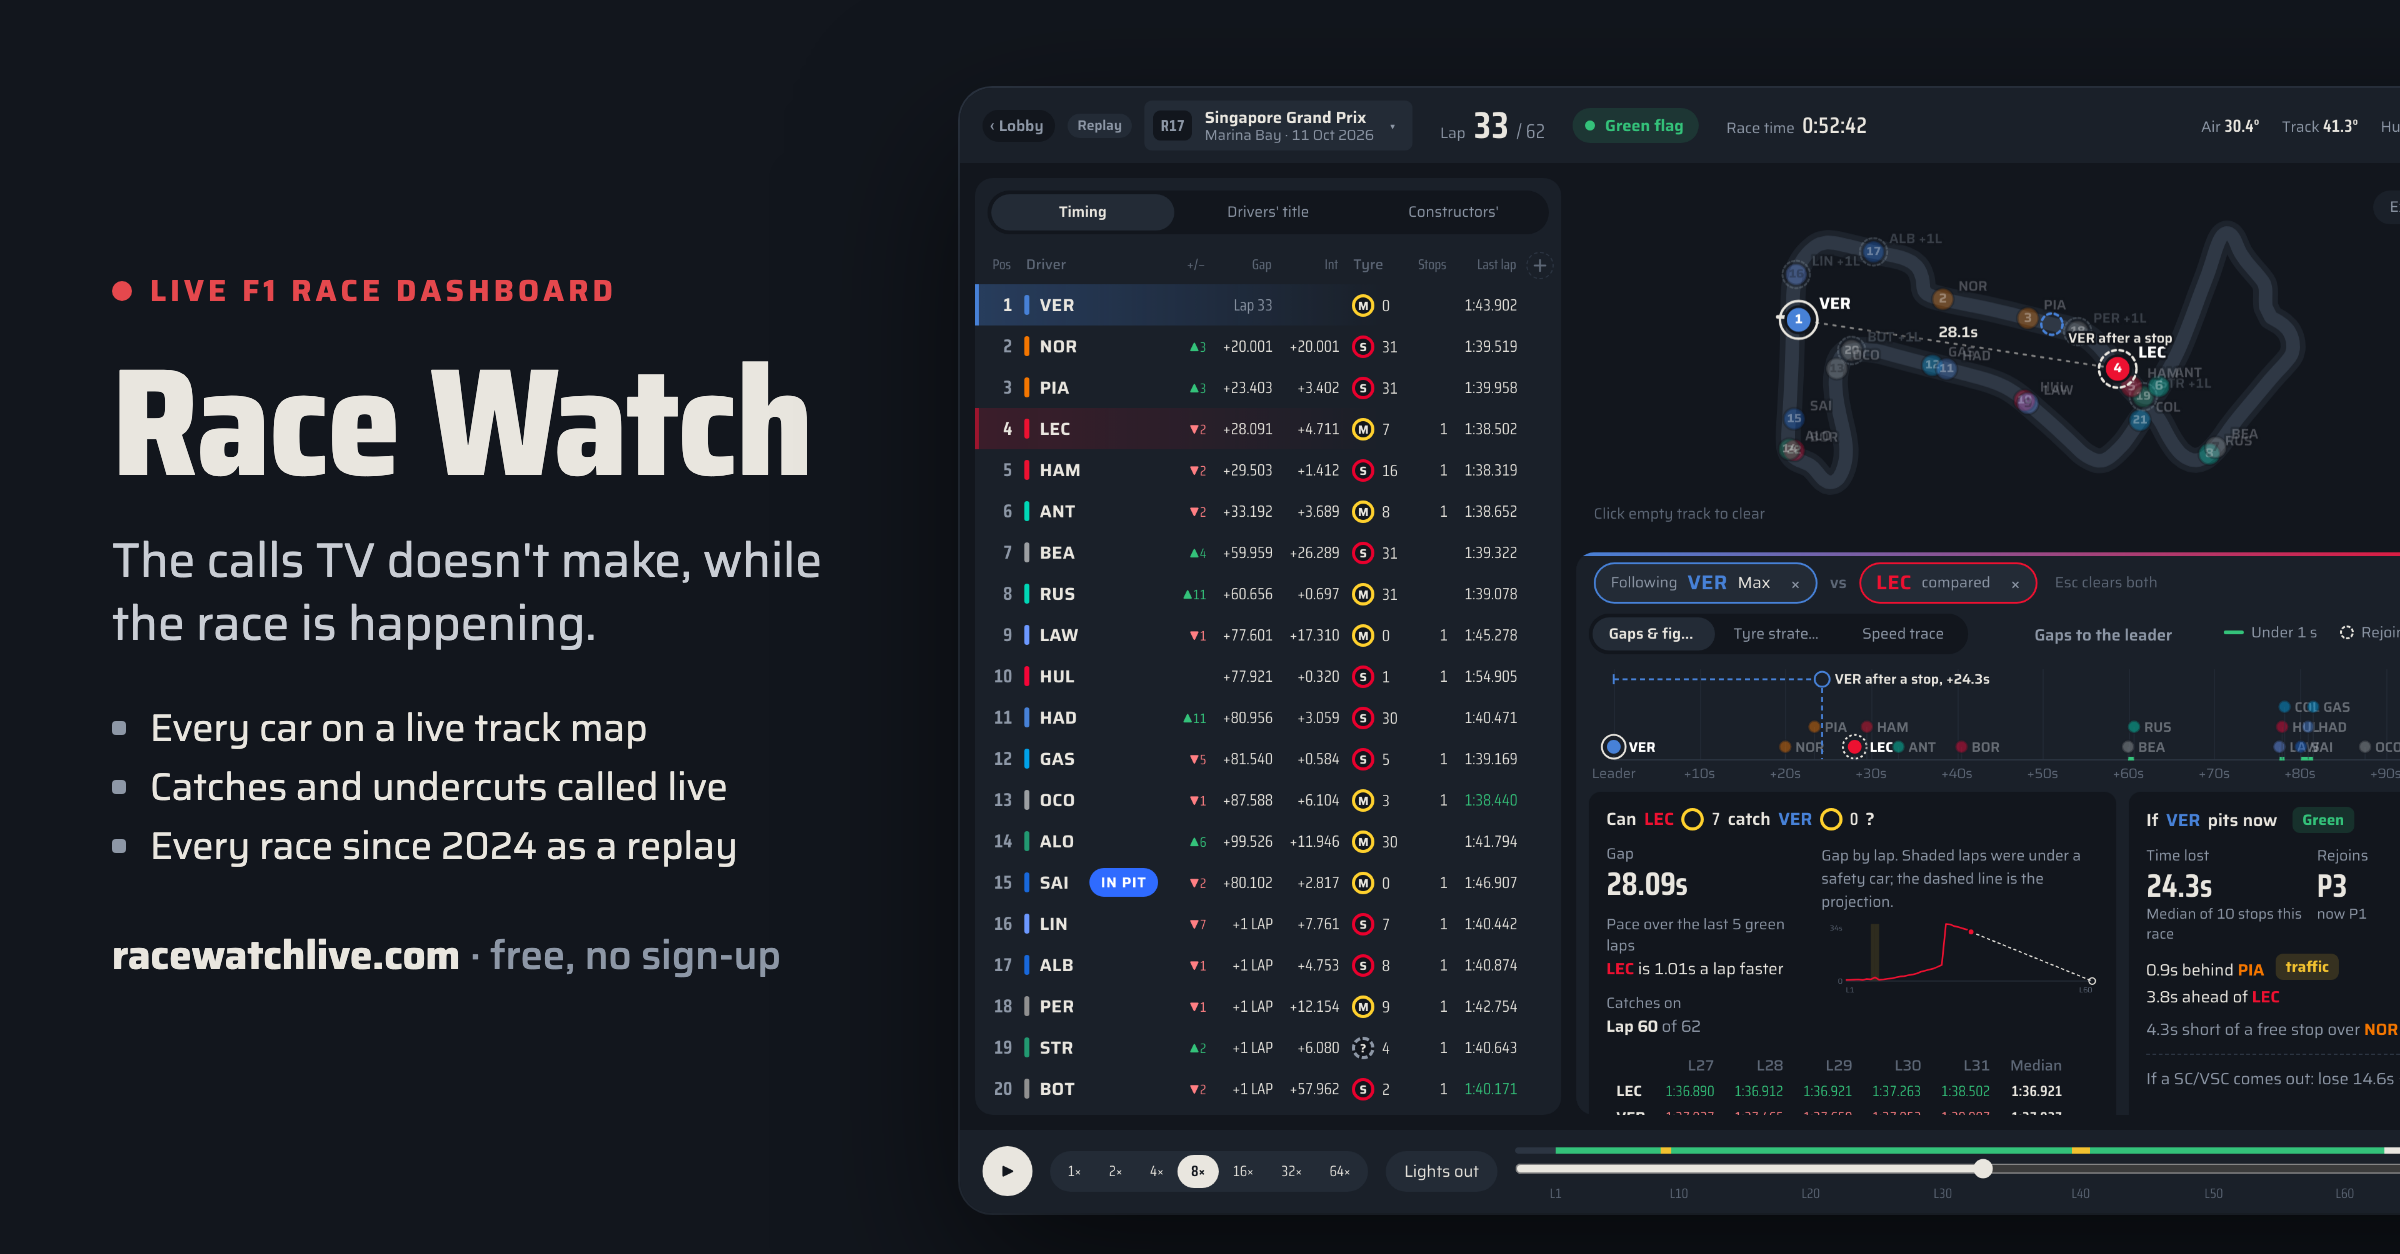
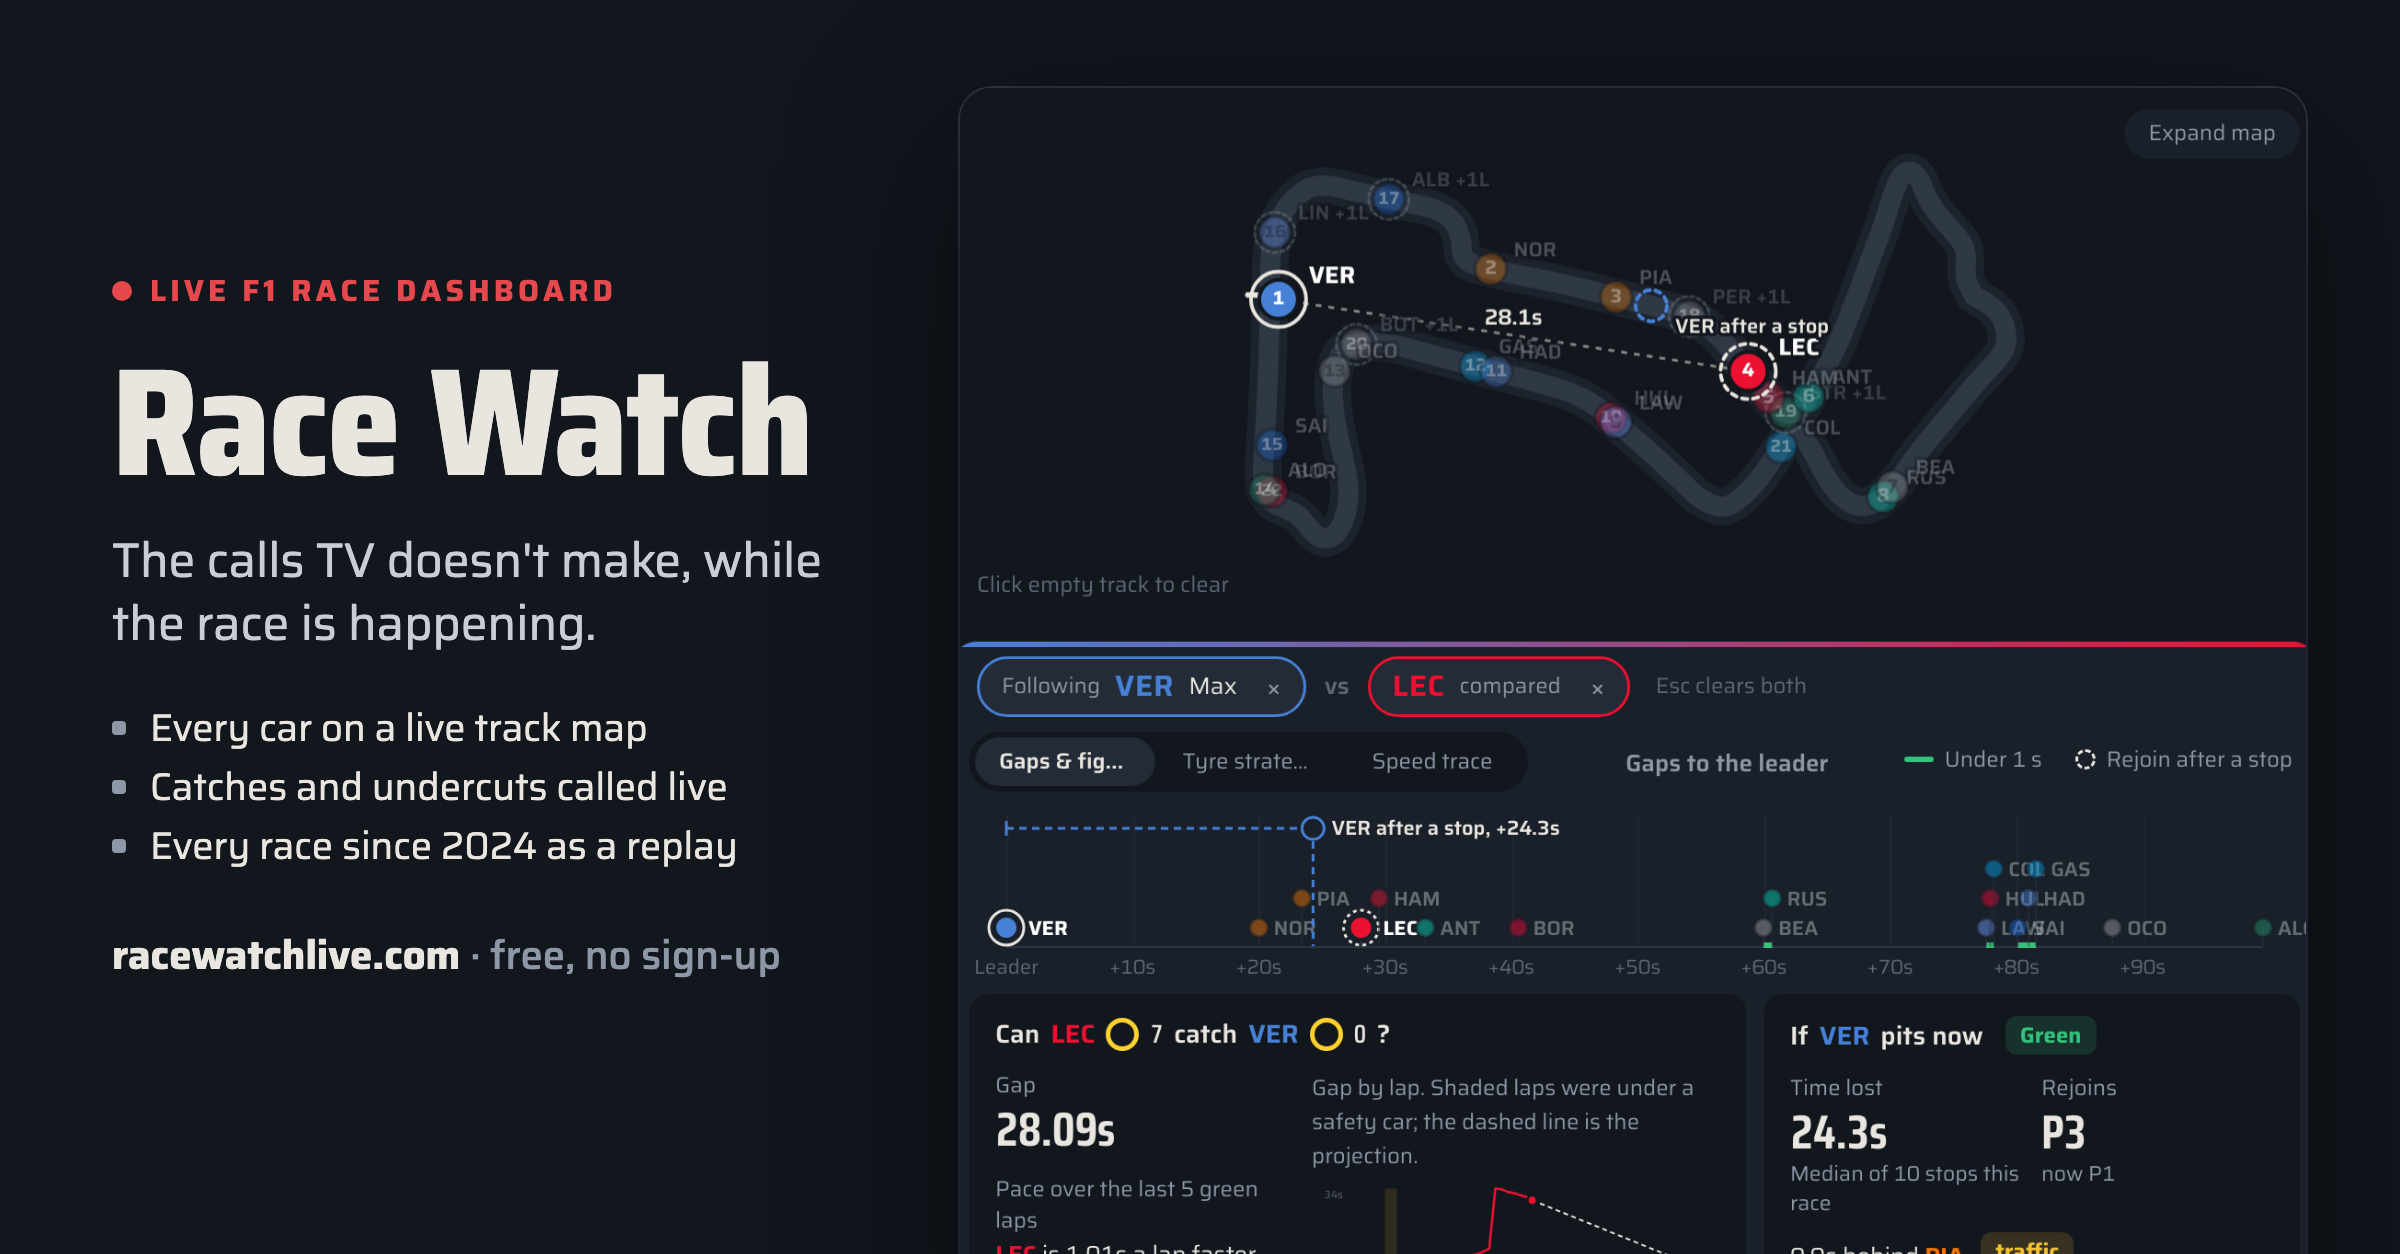
Link preview: zoom on the track map and race calls so they read at card size
Claude-Session: https://claude.ai/code/session_01MbDZgdd5jebiYP31ShFBi1

Changed region(s): [[0.4062, 0.0622, 1.0, 1.0], [0.9062, 0.0933, 1.0, 0.1244], [0.6562, 0.6842, 0.7188, 0.7153]]

diff --git a/index.html b/index.html
@@ -11,10 +11,10 @@
 <meta property="og:title" content="Race Watch · live F1 race dashboard">
 <meta property="og:description" content="Every car on a live track map, plus the calls TV doesn't make: who catches whom, where a car rejoins after its stop, and whether the undercut works. Free, no sign-up.">
 <meta property="og:url" content="https://racewatchlive.com/">
-<meta property="og:image" content="https://racewatchlive.com/og.png?v=2">
+<meta property="og:image" content="https://racewatchlive.com/og.png?v=3">
 <meta property="og:image:width" content="2400">
 <meta property="og:image:height" content="1254">
-<meta property="og:image:alt" content="The Race Watch dashboard: live track map, timing board and race calls">
+<meta property="og:image:alt" content="The Race Watch dashboard: live track map, gap chart and race calls">
 <meta name="twitter:card" content="summary_large_image">
 <link rel="icon" href="favicon.svg" type="image/svg+xml">
 <link rel="apple-touch-icon" href="apple-touch-icon.png">
